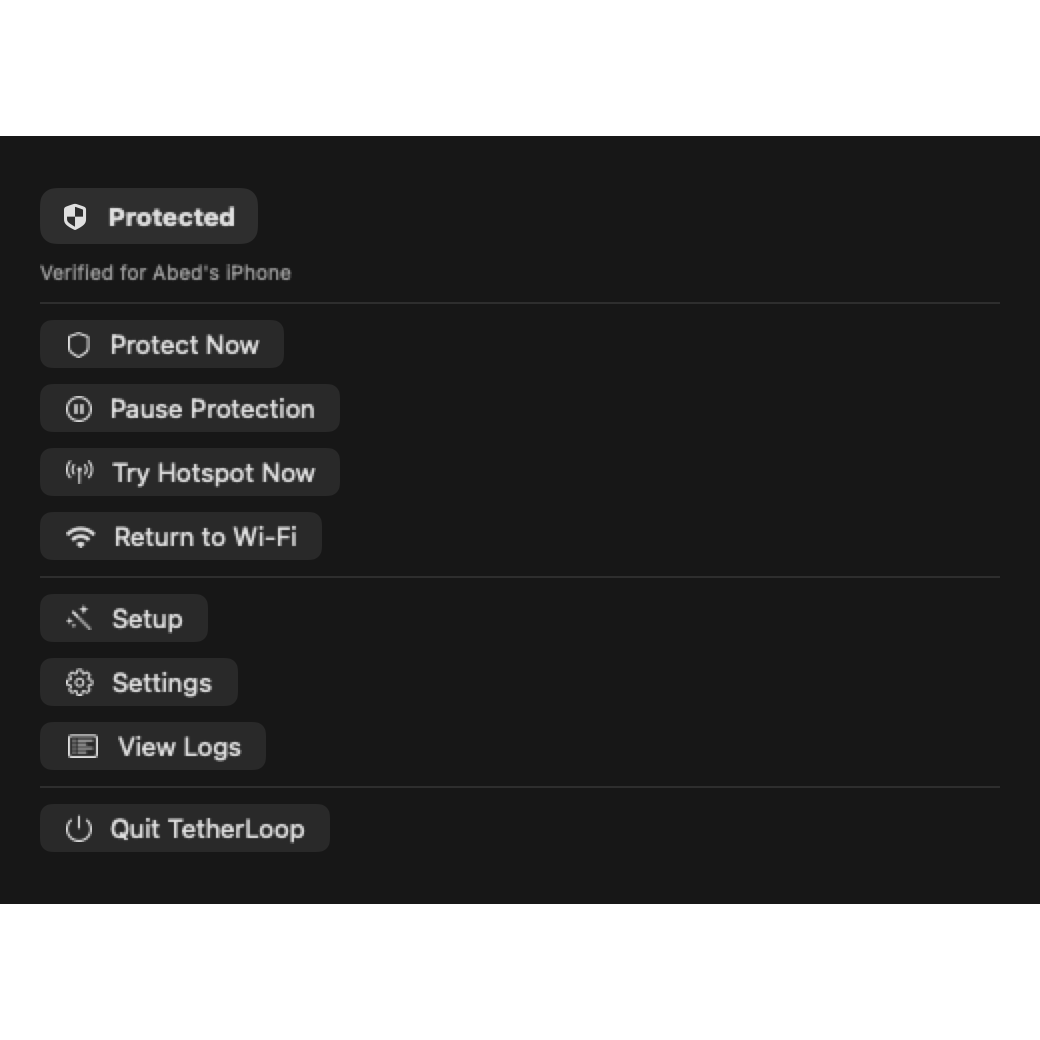
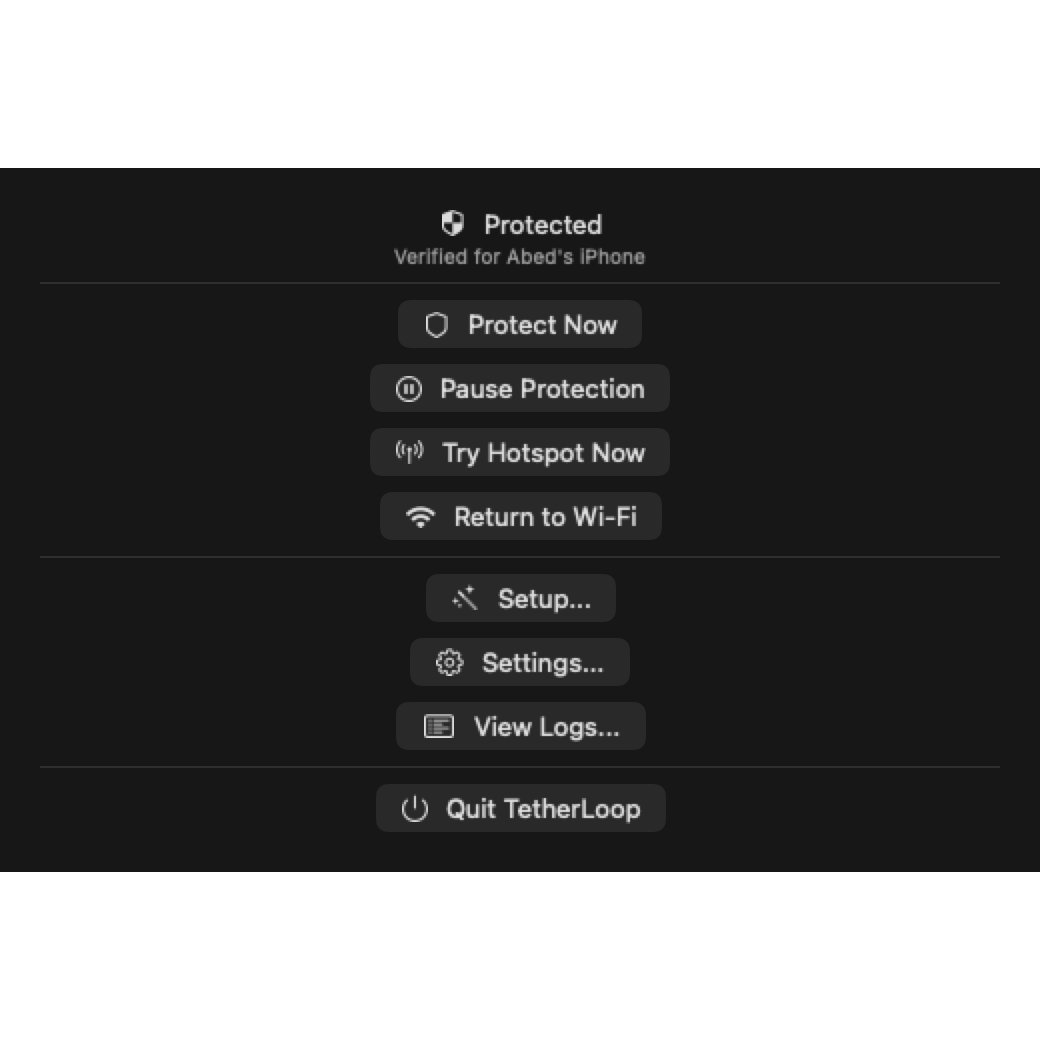
fix: expose setup action in menu bar

diff --git a/Sources/TetherLoopCore/UI/MenuBar/TetherLoopMenu.swift b/Sources/TetherLoopCore/UI/MenuBar/TetherLoopMenu.swift
@@ -1,3 +1,4 @@
+import AppKit
 import SwiftUI
 
 public struct TetherLoopMenu: View {
@@ -10,49 +11,63 @@ public struct TetherLoopMenu: View {
     }
 
     public var body: some View {
-        VStack(alignment: .leading, spacing: 8) {
-            StatusBadge(status: model.status)
-            Text(model.setupSummary)
-                .font(.caption)
-                .foregroundStyle(.secondary)
+        Label(model.status.displayName, systemImage: model.status.symbolName)
+            .disabled(true)
+        Text(model.setupSummary)
+            .font(.caption)
+            .foregroundStyle(.secondary)
 
-            Divider()
+        Divider()
 
-            Button("Protect Now", systemImage: "shield") {
-                model.protectNow()
-            }
-            Button("Pause Protection", systemImage: "pause.circle") {
-                model.pauseProtection()
-            }
-            Button("Try Hotspot Now", systemImage: "antenna.radiowaves.left.and.right") {
-                model.tryHotspotNow()
-            }
-            Button("Return to Wi-Fi", systemImage: "wifi") {
-                model.returnToWiFi()
+        if !model.settings.isSetupVerified {
+            Button("Start Setup...", systemImage: "wand.and.stars") {
+                showWindow(id: "onboarding")
             }
 
             Divider()
-
-            Button("Setup", systemImage: "wand.and.stars") {
-                openWindow(id: "onboarding")
-            }
-            Button("Settings", systemImage: "gearshape") {
-                openSettings()
-            }
-            Button("View Logs", systemImage: "list.bullet.rectangle") {
-                openWindow(id: "logs")
-            }
-
-            Divider()
-
-            Button("Quit TetherLoop", systemImage: "power") {
-                NSApplication.shared.terminate(nil)
-            }
         }
-        .padding(.vertical, 6)
-        .frame(minWidth: 260)
-        .task {
-            await model.pollNetwork()
+
+        Button("Protect Now", systemImage: "shield") {
+            model.protectNow()
         }
+        .disabled(!model.settings.isSetupVerified)
+
+        Button("Pause Protection", systemImage: "pause.circle") {
+            model.pauseProtection()
+        }
+        Button("Try Hotspot Now", systemImage: "antenna.radiowaves.left.and.right") {
+            model.tryHotspotNow()
+        }
+        Button("Return to Wi-Fi", systemImage: "wifi") {
+            model.returnToWiFi()
+        }
+
+        Divider()
+
+        Button("Setup...", systemImage: "wand.and.stars") {
+            showWindow(id: "onboarding")
+        }
+        Button("Settings...", systemImage: "gearshape") {
+            openSettings()
+            activateApp()
+        }
+        Button("View Logs...", systemImage: "list.bullet.rectangle") {
+            showWindow(id: "logs")
+        }
+
+        Divider()
+
+        Button("Quit TetherLoop", systemImage: "power") {
+            NSApplication.shared.terminate(nil)
+        }
+    }
+
+    private func showWindow(id: String) {
+        openWindow(id: id)
+        activateApp()
+    }
+
+    private func activateApp() {
+        NSApplication.shared.activate(ignoringOtherApps: true)
     }
 }
